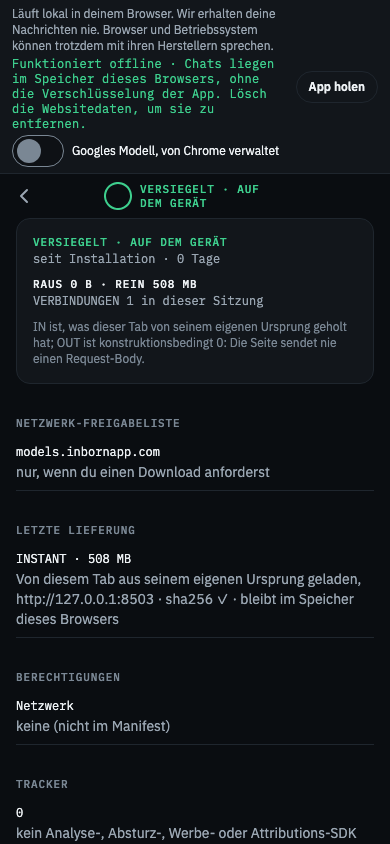
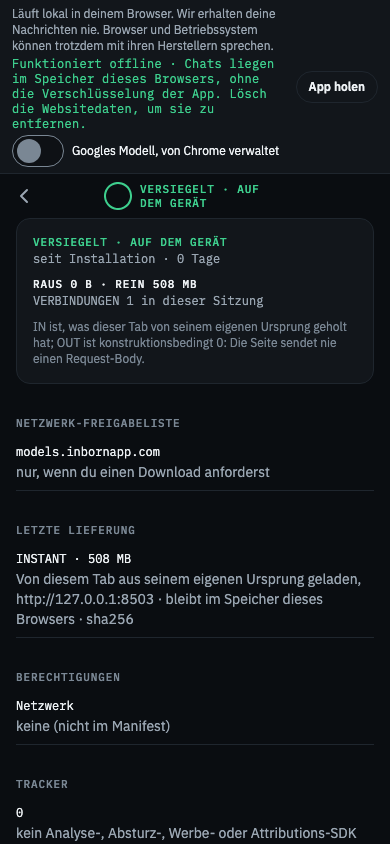
round 48b: the check mark the app font cannot draw, and the em dash in Terms
Handed over by fix-design (review-design 14 and 18). IBM Plex Sans has no U+2713, so
"sha256 ✓" shipped as "sha256 √" on the one screen whose job is literal accuracy. The
character leaves all five proof.delivery.* values in all eight locales and pseudo, and
fix-design draws the mark with the app's own check icon. Every verified line now ends on
the thing that was verified, so an icon appended after the text lands on the right word;
webUnverified carries no mark on purpose, because there the tick qualified the size and a
caveat follows it.

The em dash in the licence section of docs/legal/terms.md is gone, with a guard that no
shipped legal text carries one.

Both guards watched red: docs/qa/fix-copy/tick-and-emdash-red.txt.

Changed region(s): [[0.4308, 0.6777, 0.8923, 0.7393], [0.0308, 0.7085, 0.3385, 0.7393]]

diff --git a/packages/i18n/test/locales.test.ts b/packages/i18n/test/locales.test.ts
@@ -103,6 +103,15 @@ describe("round 48 copy rules", () => {
     }
   });
 
+  /* IBM Plex Sans has no U+2713: the fallback draws a symmetric V, so "sha256 \u2713" shipped as "sha256 \u221a".
+     The Proof screen draws the mark with the app's own check icon, and every verified line ends on what was verified. */
+  it("no locale spells a check mark the app font cannot draw", () => {
+    for (const f of files) {
+      const offenders = Object.entries(load(f)).filter(([, v]) => /[\u2713\u2714\u221a]/.test(v)).map(([k]) => k);
+      expect(offenders, f).toEqual([]);
+    }
+  });
+
   it("no locale carries an em dash", () => {
     for (const f of files) {
       const offenders = Object.entries(load(f)).filter(([, v]) => v.includes("—")).map(([k]) => k);

diff --git a/apps/mobile/test/legal-texts.test.ts b/apps/mobile/test/legal-texts.test.ts
@@ -415,6 +415,11 @@ describe("F207/F209/F214 · what the site may not go back to saying", () => {
     for (const file of SITE_TEXT) expect(read(file), file).not.toMatch(/\blicences?\b|\bquantis(?:ation|ed)\b|\bmaths\b|\bsummaris|data centre/i);
   });
 
+  /* review-design 18: the one em dash left in a text the app renders on a device. */
+  it("no shipped legal text carries an em dash", () => {
+    for (const file of SHIPPED) expect(read(file), file).not.toContain("\u2014");
+  });
+
   /* The EULA keeps British wording, but its pointer at a screen must name the screen: `about.licenses` reads LICENSES. */
   it("the terms point at the screen the app actually shows", () => {
     const terms = read("docs/legal/terms.md");

diff --git a/docs/qa/qa-run-2026-09-11.md b/docs/qa/qa-run-2026-09-11.md
@@ -1133,7 +1133,7 @@ to 95 px on a second line. `docs/qa/acceptance/web/a1-onboarding.json`, `a5-ui.j
 | F183 | — (verification) | F125 (round 37) and rounds 39 + 42 on the device | **Vision, and the two entrances rounds 39 and 42 added, on the shipping build.** The door photo was attached with the **Photo** button — the route round 37 named as the one that works — and the paywall was reached twice: once from the front door and once from a control this licence cannot use. | **PASS.** **F125:** with INSTANT resident the photo is described — *"I see a simple brown door with a keyhole on the upper right and some decorative panels on the sides."* (`p-01-f125-door-described.png`). **Round 39:** Settings opens with the `INBORN PRO` section, its row reading `See what's in Pro · You own Pro. Pro for Work adds the client tools. · PRO`, and tapping it opens S60 with the `owned` block, the comparison table and **no reason line**, because nothing was refused (`pw-01-paywall-from-settings.png`). A **locked control** on this licence — a `.xlsx`, which is Work-only and this phone owns Pro — opens the same screen carrying its reason: *"You opened a spreadsheet. Pro for Work reads Excel and HTML files."* (`pw-02-paywall-with-reason-office.png`). No purchase was started. **Round 42:** Legal → Terms opens with `OFFLINE COPY · EFFECTIVE 22 September 2026`, the button **"Read the current version at inbornapp.com/terms"** and the note that the website version is the one that applies, above the F97 identity block (`lg-01-legal-terms-open-on-site.png`). The button is not followed here, because `inbornapp.com` still does not resolve (README "Deploy"). **F124b:** the airplane-test link is on the Proof screen as `Run the airplane test` and lands on `airplane-test` (`pf-01-proof-airplane-link.png`, `pf-02-airplane-test.png`); the onboarding Sealed screen's copy of the same link was not on this path, because an update in place does not re-run onboarding. |
 | F184 | Low | The driver, not the app — recorded so the next Android pass does not lose the time | **Three traps cost this run most of its time and none of them is in the repo.** (1) The Chats screen's TAB focus ring is **empty** — every `focused="true"` query answers nothing — and on Android the new-chat control is a **FAB** sitting under the soft keyboard, so the key walk cannot reach a new chat at all; three attempts in a row logged `focus=[]`. (2) The attach sheet's strict toggle is its **last** item, so with a library of documents above it, it starts below the fold, is absent from the tree, and a driver reading `checked=` gets an empty string — which reads as "off" and silently skips the row. It left strict **on** across two turns in this run before the check caught it. (3) The Proof screen's `proof-airplane` is below the fold for the same reason, so a presence check on the tree reports it MISSING on a screen where it plainly exists. | **Fixed in the driver.** The pass is driven by the `a11y-drive` instrumentation APK (`apps/mobile/android-dev/a11y-drive`, `com.inbornapp.mobile.uitest`), which performs AccessibilityNodeInfo actions by view id in all windows and reaches nodes the focus ring and the on-screen tree do not have — including the system photo picker, where it selects the fixture by its `Photo taken on …` content-description and then presses the picker's own **Add** button, since a licence that may send several photos gets the picker in multi-select mode. The sheet readers now scroll until the node they need is in the tree rather than trusting one dump. Both driver packages were uninstalled at the end of the run. |
 | F205 | Blocker | `docs/store/listing.*.json` → `apple.description`, `apple.whats_new` (all 8 locales); `docs/store/scripts/check-store-copy.mjs` | **The Apple listing named Android, in every language, in two fields.** `apple.description` bullet 2 was "Android: the app has no Internet permission at all. Open its permissions page and look." and `apple.whats_new` closed on "On Android, no Internet permission at all." App Store Review Guideline 2.3.10 forbids metadata that references another mobile platform, so this is a metadata rejection in all eight storefronts on the first submission, and the checker that reads every string of every listing had no rule that could see it. | **Fixed** (round 48, branch `fix-copy`). The description bullet becomes a check that works on an iPhone and names no platform, "The app opens no connection by itself. Put it behind a firewall and watch nothing appear.", and the What's New bullet ends on the same sentence; the iPhone bullet above them already carried the App Privacy Report proof, so nothing was lost. Translated in all seven. The review's suggested wording named Lockdown; that was dropped, because on iOS "Lockdown" also names Apple's own Lockdown Mode, which is not a firewall, and an ambiguous instruction is the failure this whole review is about. `check-store-copy.mjs` gains a two-way platform rule over the six Apple fields, the three Play fields and the shared screenshot overlays (`reviewer_notes` exempt, because a reviewer needs both names), and it now takes a directory argument so the guard can be run against a copy. Watched red: `docs/qa/fix-copy/store-guard-red.txt`, **8 errors, one per locale**, with the guideline number in the message; `apps/mobile/test/store-copy.test.ts` sabotages `apple.description`, `apple.whats_new`, `apple.keywords`, a screenshot subline and `google.full_description` and expects exit 1 on each. Green: `docs/qa/fix-copy/store-check-green.txt`, every field within its limit, zero warnings. |
-| F206 | Blocker | `apps/mobile/src/screens/Proof/Proof.tsx:66`, `apps/mobile/src/services/AppServices.tsx` | **The Proof screen told an iPhone user that Apple hosted a file we hosted.** The last-delivery line read `Platform.OS === "android" ? t("proof.delivery.play") : t("proof.delivery.apple")`, so every completed non-Android delivery printed "Apple-hosted asset pack · sha256 ✓", including a download from `models.inbornapp.com`, a Hugging Face import and a GGUF the user picked off their own disk. `apps/site/src/pages/proof.html` says in public "We use no Apple-hosted asset packs", so the one screen whose whole job is literal accuracy stated a provenance our own site denies. | **Fixed** (round 48, branch `fix-copy`). `DeliveryState` carries the `via` the vault already records (`packages/core/src/catalog/install.ts` `DeliverySource`), and the line is chosen by `deliveryKey(source)` (`apps/mobile/src/proof/deliveryLine.ts`), an exhaustive switch, so a new source is a type error rather than a wrong sentence. Three keys added in all eight locales plus pseudo: `proof.delivery.https` ("Downloaded from {host} when you asked · sha256 ✓"), `proof.delivery.hf` and `proof.delivery.imported`; `proof.delivery.apple` survives for `source === "apple"` alone. Test: `apps/mobile/src/proof/deliveryLine.test.ts`, including the complement (`apple` is the only source that may reach the Apple line) and a check that every key it returns exists in `en.json`. **Residual, not introduced here:** `delivery.status` is only ever set to `delivering` or `verifying` (`AppServices.tsx:314`), so the `done` branch this fix corrects does not render today and the section shows the built-in line after a download finishes. That is a second bug in the same section and it needs a device to fix; it is left for a stream that has one. |
+| F206 | Blocker | `apps/mobile/src/screens/Proof/Proof.tsx:66`, `apps/mobile/src/services/AppServices.tsx` | **The Proof screen told an iPhone user that Apple hosted a file we hosted.** The last-delivery line read `Platform.OS === "android" ? t("proof.delivery.play") : t("proof.delivery.apple")`, so every completed non-Android delivery printed "Apple-hosted asset pack · sha256 ✓", including a download from `models.inbornapp.com`, a Hugging Face import and a GGUF the user picked off their own disk. `apps/site/src/pages/proof.html` says in public "We use no Apple-hosted asset packs", so the one screen whose whole job is literal accuracy stated a provenance our own site denies. | **Fixed** (round 48, branch `fix-copy`). `DeliveryState` carries the `via` the vault already records (`packages/core/src/catalog/install.ts` `DeliverySource`), and the line is chosen by `deliveryKey(source)` (`apps/mobile/src/proof/deliveryLine.ts`), an exhaustive switch, so a new source is a type error rather than a wrong sentence. Three keys added in all eight locales plus pseudo: `proof.delivery.https` ("Downloaded from {host} when you asked · sha256 ✓"), `proof.delivery.hf` and `proof.delivery.imported`; `proof.delivery.apple` survives for `source === "apple"` alone. Test: `apps/mobile/src/proof/deliveryLine.test.ts`, including the complement (`apple` is the only source that may reach the Apple line) and a check that every key it returns exists in `en.json`. **Residual, not introduced here:** `delivery.status` is only ever set to `delivering` or `verifying` (`AppServices.tsx:314`), so the `done` branch this fix corrects does not render today and the section shows the built-in line after a download finishes. That is a second bug in the same section and it needs a device to fix; it is left for a stream that has one. **Follow-up, at `fix-design`'s request (review-design 14):** the literal `✓` is out of all five `proof.delivery.*` values in all eight locales and pseudo, because IBM Plex Sans has no U+2713 and the fallback drew a square-root sign (`sha256 √`, visible in `docs/qa/fix-copy/before/proof-screen-de-390.png`). `fix-design` draws the mark with the app's own check icon instead. Every verified line now **ends** on the thing that was verified, so an icon appended after the text lands on the right word; `proof.delivery.webUnverified` deliberately carries no mark, because there the tick qualified the size and a caveat follows it, so a trailing check would read as verifying "no hash published". Guard in `packages/i18n/test/locales.test.ts`: no locale may spell U+2713, U+2714 or U+221A. Watched red: `docs/qa/fix-copy/tick-and-emdash-red.txt`. |
 | F207 | Blocker | `apps/site/src/pages/index.html:116`, `apps/site/src/pages/proof.html:25` | **"Bytes out stays at 0 B for the life of the install" is false for any Pro user.** A model download on iOS or desktop sends bytes out, and `proof.html` lists that download nine lines below the claim. One screenshot of a non-zero OUT counter would have destroyed the whole proof posture on the page that asks to be trusted. | **Fixed** (round 48, branch `fix-copy`). Both sentences now end "unless you start a model download yourself." Guarded in `apps/mobile/test/legal-texts.test.ts`: no site page, `build.mjs` or `site.css` may contain "for the life of the install", and both pages must carry the qualifier. Watched red: `docs/qa/fix-copy/site-guards-red.txt`. Screenshots before and after at 390 and 1440: `docs/qa/fix-copy/before/site-*.png`, `docs/qa/fix-copy/after/site-*.png`. |
 | F208 | High | `apps/mobile/src/screens/paywall/PaywallScreen.tsx:146` | **The paywall advertised Family Sharing that this release does not have, whenever the store was unreachable.** The condition was `state.familyShareable \|\| !state.storeReachable`, so offline, the mode this product is built around, an iPhone user read "Family Sharing · up to 6" at the moment of payment. `docs/legal/terms.md` §2 states the opposite and says "the paywall says so on screen", and `listing.en.json` → `reviewer_notes` tells the App Store reviewer it is not enabled. | **Fixed** (round 48, branch `fix-copy`). The condition is `state.familyShareable` alone: an unknown store state resolves to `paywall.familySharing.iosOff`, never to the claim that sells. |
 | F209 | High | `apps/site/src/pages/proof.html:34` | **The proof page promised per-release hashes that `docs/legal/verification.md` forbids**, over an empty table. `verification.md` lists a published per-release hash under wording we may not publish, `docs/store/README.md` says the store-copy checker fails on it in listings, so the rule was enforced on store text and blind on the site. | **Fixed** (round 48, branch `fix-copy`). The sentence and the empty table are replaced by "We do not publish a per-release hash, because a hash cannot show that a binary came from the source you can read. The checks above do not need one." The heading drops "and release hashes". Guarded in `legal-texts.test.ts` (no page may say "lists the SHA-256 of every released build", and `proof.html` must carry the replacement), watched red in `docs/qa/fix-copy/site-guards-red.txt`. |
@@ -1141,4 +1141,4 @@ to 95 px on a second line. `docs/qa/acceptance/web/a1-onboarding.json`, `a5-ui.j
 | F211 | High | All 8 `apple.description` + `apps/site/src/pages/index.html:142` | **"Less than two months of a cloud AI subscription" undersold Pro by half, in nine places.** A cloud AI subscription is $20 a month and Pro is $19.99 once, so the true claim is stronger than the hedge we were making, in the one sentence where a hedge costs the most. | **Fixed** (round 48, branch `fix-copy`). "One month of a cloud AI subscription, and it never renews.", plus its seven translations and the site. |
 | F212 | High | `packages/i18n/locales/*.json`; `packages/core/src/catalog/manifest.json` | **The first screen overclaimed and the model cards spent their most-read sentence on a language no launch locale has.** `onboarding.sub` was "AI that runs on your device. No account. No cloud. No trace." Chats persist on the device, encrypted, and `storage.title` is literally "ON THIS DEVICE", so "No trace" is the one word a sceptic disproves in ten seconds by opening the chat list. The three `models.copy.*.weakAt` lines named **Hebrew** to every reader, in every language, although Hebrew is not a launch locale and not one of the eight store languages; the per-language verdict already lives in the signed manifest (`fit.languages`) and reaches anyone who actually writes Hebrew through `chat.modelWeak`. `voice.onDevice` was "ALL ON THIS PHONE" on a tablet, a Mac and a browser, while every neighbouring string used the `{device}` select. `models.recommendedNone` shouted a full sentence of failure in caps. | **Fixed** (round 48, branch `fix-copy`). `onboarding.sub` becomes "AI that runs on your device. No account, no cloud, and nothing you type ever leaves it."; the `weakAt` lines drop the named language and keep the honest ones ("German prose", "Korean translation"); `voice.onDevice` and `models.recommendedNone` take the `{device}` select in all eight locales. The `weakAt` text is **also** the signed catalog's (`modelCopy.test.ts` requires `en.json` to repeat the manifest word for word), so `packages/core/src/catalog/manifest.json` was edited with it and re-signed (`node scripts/sign-catalog.mjs`, v4, 7 models, `--check` OK). The CDN copy at `models.inbornapp.com/v1` still carries the old prose and should be republished at the next model publish; nothing a user reads comes from it, because the locale key wins for every catalog model. Guarded in `packages/i18n/test/locales.test.ts`: every string that names the device you are holding must take it from `{device}`. |
 | F213 | Medium | `packages/i18n/locales/de.json`, `en.json`, and the seven translations of `proof.outIn` | **Four defects the locale files had in their own language.** Three German `-ieren` imperatives dropped the `-e` and read as sloppiness rather than register: `importier`, `akzeptier`, `nutz Ablage` (the same file writes "Exportiere" and "Öffne" correctly). `de.json` `storage.backup` carried an em dash where the English has a comma and a "so". It was the only one in all nine files. `en.json` `documents.noneAttached` was the only English string with curly quotes, while the eight others that quote a setting use none. And `proof.outIn`, the headline number of the trust screen, was byte-identical English in de, es, fr, ja, ko, pt-BR and zh-Hant. | **Fixed** (round 48, branch `fix-copy`). `importiere` / `akzeptiere` / `nutze`; the em dash becomes ", deshalb"; straight quotes in English; and the readout is translated (`RAUS/REIN`, `SALEN/ENTRAN`, `SORTIE/ENTRÉE`, `SAI/ENTRA`, `送信/受信`, `보냄/받음`, `送出/接收`). German „…" and French « … » are that language's typography and stay. Three guards in `packages/i18n/test/locales.test.ts`: no locale carries an em dash, `en.json` uses straight quotes, the Proof readout differs from English in every locale. Watched red: `docs/qa/fix-copy/locale-guards-red.txt`. Visible before and after: `docs/qa/fix-copy/{before,after}/proof-screen-de-390.png`. `OUT 0 B · IN 508 MB` becomes `RAUS 0 B · REIN 508 MB`. |
-| F214 | Medium | `SafetyCard.tsx`, `apps/site/src/**`, `apps/site/build.mjs`, `docs/legal/terms.md`, `packages/i18n/locales/*.json`, `docs/store/listing.*.json` | **The rest of the copy review, in one pass.** The crisis card said "you can talk to a person **now**" and opened a `tel:` link, on a product whose signature gesture is airplane mode and on surfaces (desktop, browser) that may have no dialer at all. The site was British English (`licence`, `quantisation`, `maths`, `data centre`) while the app screens read `LICENSES` / `Quantization` / `math` and the largest storefront is the US one; `terms.md` pointed the reader at "Settings → About → Licences", a screen that does not exist under that name. `index.html` stated "Neither store listing is public yet" in prose, on the page a launch-day reader lands on. `apple.whats_new` promised a reduced launch price "for the first month" in a field nobody revisits. Four `documents.*` strings spoke as "I" while `documents.strict.hint` spoke as "Inborn", so app strings read as the model talking when it is not. `chat.incognito.headline` and `.toggleHint` said the same thing two ways, seconds apart. `paywall.usdFallback` and `paywall.web.priceNote` were two sentences for one fact. `proof.build.notPublished` held a string that says the source **is** public. | **Fixed** (round 48, branch `fix-copy`). `safety.title` becomes "If you're in crisis, these lines can help." and a new `safety.needsSignal` ("Calling needs a signal. Turn Airplane Mode off first.") shows under the numbers while `useConnectivity()` reports offline. US spelling throughout the site, the posts, `site.css` and `build.mjs` (the `/licenses` page is now titled "Licenses", matching its own route), and the EULA's two screen references now name `Licenses`; the EULA keeps British wording in its own prose, per the review. The store-state sentence is a new `{{STORE_STATE}}` token driven by the `storesLive` flag that already switches the buttons, checked in both states. The launch-price clause is cut from all eight What's New fields; `paywall.launch` carries it in-app where it is easy to retire. The four `documents.*` strings and `documents.needsIndexModel` move to the Inborn voice in all eight locales, `chat.incognito.headline` takes the longer sentence, `paywall.usdFallback` is deleted and `TierCard` uses `paywall.web.priceNote`, and `proof.build.notPublished` is renamed `proof.build.source`. Guarded in `legal-texts.test.ts` (British spelling, and the terms pointing at the real screen), watched red in `docs/qa/fix-copy/site-guards-red.txt`. **Not done:** review items 19 and 23, collapsing the five duplicate `paywall.why.*` pairs and adding a `paywall.compare` row for the six-quick-action cap. Both need `packages/core` gate and `COMPARE_ROWS` changes rather than a string edit, and were outside a copy stream's brief. |
+| F214 | Medium | `SafetyCard.tsx`, `apps/site/src/**`, `apps/site/build.mjs`, `docs/legal/terms.md`, `packages/i18n/locales/*.json`, `docs/store/listing.*.json` | **The rest of the copy review, in one pass.** The crisis card said "you can talk to a person **now**" and opened a `tel:` link, on a product whose signature gesture is airplane mode and on surfaces (desktop, browser) that may have no dialer at all. The site was British English (`licence`, `quantisation`, `maths`, `data centre`) while the app screens read `LICENSES` / `Quantization` / `math` and the largest storefront is the US one; `terms.md` pointed the reader at "Settings → About → Licences", a screen that does not exist under that name. `index.html` stated "Neither store listing is public yet" in prose, on the page a launch-day reader lands on. `apple.whats_new` promised a reduced launch price "for the first month" in a field nobody revisits. Four `documents.*` strings spoke as "I" while `documents.strict.hint` spoke as "Inborn", so app strings read as the model talking when it is not. `chat.incognito.headline` and `.toggleHint` said the same thing two ways, seconds apart. `paywall.usdFallback` and `paywall.web.priceNote` were two sentences for one fact. `proof.build.notPublished` held a string that says the source **is** public. | **Fixed** (round 48, branch `fix-copy`). `safety.title` becomes "If you're in crisis, these lines can help." and a new `safety.needsSignal` ("Calling needs a signal. Turn Airplane Mode off first.") shows under the numbers while `useConnectivity()` reports offline. US spelling throughout the site, the posts, `site.css` and `build.mjs` (the `/licenses` page is now titled "Licenses", matching its own route), and the EULA's two screen references now name `Licenses`; the EULA keeps British wording in its own prose, per the review. The store-state sentence is a new `{{STORE_STATE}}` token driven by the `storesLive` flag that already switches the buttons, checked in both states. The launch-price clause is cut from all eight What's New fields; `paywall.launch` carries it in-app where it is easy to retire. The four `documents.*` strings and `documents.needsIndexModel` move to the Inborn voice in all eight locales, `chat.incognito.headline` takes the longer sentence, `paywall.usdFallback` is deleted and `TierCard` uses `paywall.web.priceNote`, and `proof.build.notPublished` is renamed `proof.build.source`. Guarded in `legal-texts.test.ts` (British spelling, and the terms pointing at the real screen), watched red in `docs/qa/fix-copy/site-guards-red.txt`. **Follow-up, at `fix-design`'s request (review-design 18):** the em dash in the licence section of `docs/legal/terms.md` is gone, and a guard asserts no shipped legal text carries one. **Declined, with evidence (review-design 25):** `onboarding.sealed.prove` ("Prove it: turn on Airplane Mode and ask") is accurate. `Sealed.tsx:40` routes that button to `/proof/airplane`, which renders `AirplaneTest`; round 36 took the airplane test out of the onboarding **chain**, and F124b put it back on this screen as an offer. `apps/mobile/src/screens/Onboarding/sealed.test.ts` already asserts both the route and the copy in all nine locales. **Not done:** review items 19 and 23, collapsing the five duplicate `paywall.why.*` pairs and adding a `paywall.compare` row for the six-quick-action cap. Both need `packages/core` gate and `COMPARE_ROWS` changes rather than a string edit, and were outside a copy stream's brief. |

diff --git a/README.md b/README.md
@@ -3972,6 +3972,15 @@ the end. F rows: `docs/qa/qa-run-2026-09-11.md` F205–F214.
   price left all eight What's New fields. Five `documents.*` strings moved from "I" to the Inborn voice, so an app
   string no longer reads as the model talking.
 
+**Three items handed over by `fix-design`.** The literal `✓` left all five `proof.delivery.*` values in all eight
+locales: IBM Plex Sans has no U+2713, so the fallback drew a square-root sign and the trust screen read `sha256 √`
+(`docs/qa/fix-copy/before/proof-screen-de-390.png`). `fix-design` draws the mark with the app's own check icon, so
+every verified line now ends on the thing that was verified and an appended icon lands on the right word;
+`proof.delivery.webUnverified` carries no mark on purpose, because there the tick qualified the size and a caveat
+follows it. The em dash left the licence section of `docs/legal/terms.md`. The third item was **declined with
+evidence**: `onboarding.sealed.prove` does start the airplane test, `Sealed.tsx:40` routes it to `/proof/airplane`,
+and `sealed.test.ts` has asserted that route and that copy since F124b.
+
 **Guards, watched red before they were trusted.** `docs/qa/fix-copy/store-guard-red.txt` (8 errors, one per locale,
 with the guideline number), `docs/qa/fix-copy/locale-guards-red.txt` (4 of the new locale rules failing on a
 reintroduced em dash, curly quote, English readout and hardcoded PHONE), and a sabotage pass over the four new site
@@ -3983,6 +3992,6 @@ line, `reviewer_notes` must still be allowed to name both platforms.
 `packages/core` changes rather than string edits, and a copy stream is the wrong place for them. Nothing was pushed
 to App Store Connect or Play; the repository still has no script that writes store metadata.
 
-Gates: `pn typecheck` 0, `pn lint` 0, `pn check:store` PASS with zero warnings, **1,239 tests** (core 655, mobile 556,
-i18n 15, ui 13), `apps/site` build + `check.mjs` 12 pages clean, `pn web:build` + `pn web:smoke` PASS. Evidence and
+Gates: `pn typecheck` 0, `pn lint` 0, `pn check:store` PASS with zero warnings, **1,241 tests** (core 655, mobile 557,
+i18n 16, ui 13), `apps/site` build + `check.mjs` 12 pages clean, `pn web:build` + `pn web:smoke` PASS. Evidence and
 screenshots at 390 and 1440, before and after: `docs/qa/fix-copy/`.

diff --git a/docs/legal/terms.md b/docs/legal/terms.md
@@ -10,7 +10,7 @@ These terms apply to the Inborn apps for iOS, Android, Windows and macOS and to 
 
 ## 1. Licence
 
-We grant you a personal, non-exclusive, non-transferable, revocable licence to install and use Inborn on devices you own or control, for your own use, subject to these terms. The app is licensed, not sold. Inborn is not open source: its source code is public at github.com/moshecohen90/inborn under our source-available licence, which grants the right to read, build and verify the code and nothing more — not to redistribute, modify or resell it. The app, its user interface, artwork, name and logo are ours. Third-party components we include keep their own licences, listed in the app under Settings → About → Licenses.
+We grant you a personal, non-exclusive, non-transferable, revocable licence to install and use Inborn on devices you own or control, for your own use, subject to these terms. The app is licensed, not sold. Inborn is not open source: its source code is public at github.com/moshecohen90/inborn under our source-available licence, which grants the right to read, build and verify the code and nothing more. It does not grant the right to redistribute, modify or resell it. The app, its user interface, artwork, name and logo are ours. Third-party components we include keep their own licences, listed in the app under Settings → About → Licenses.
 
 You may not: redistribute the app or its Pro/Work features; remove or bypass licence checks; use the app to build a competing service that misrepresents its origin; or use our name or logo without permission. You may inspect, reverse-engineer and audit the app to the extent permitted by law. You do not have to take our privacy claims on trust: they are the kind that can be checked from outside the app, and the Proof screen inside it tells you how.
 
